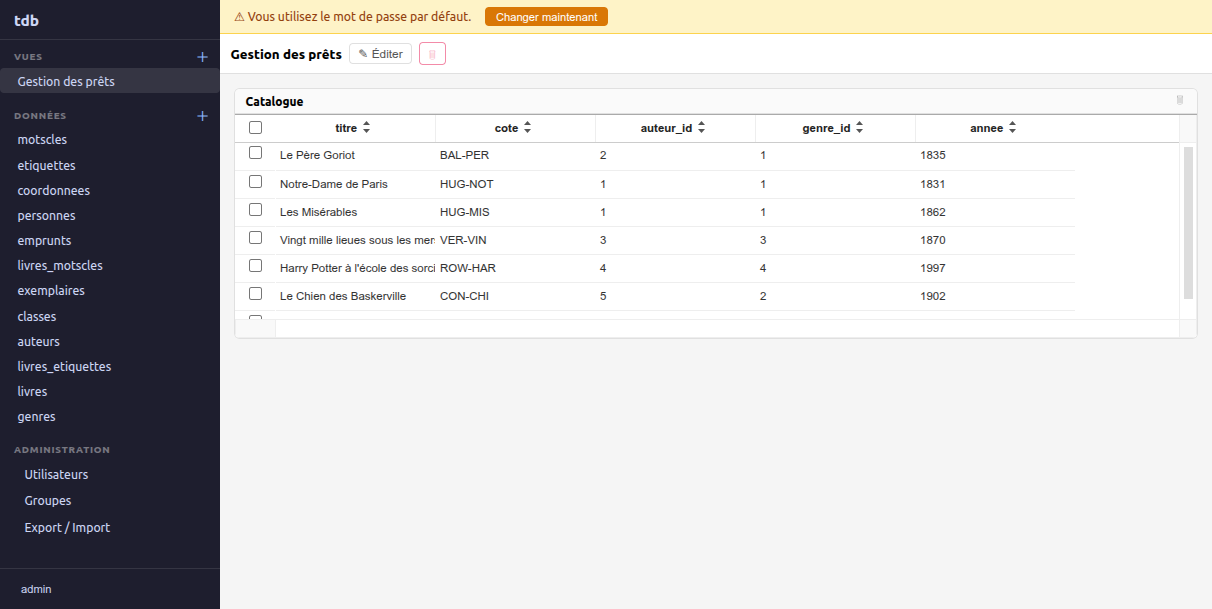
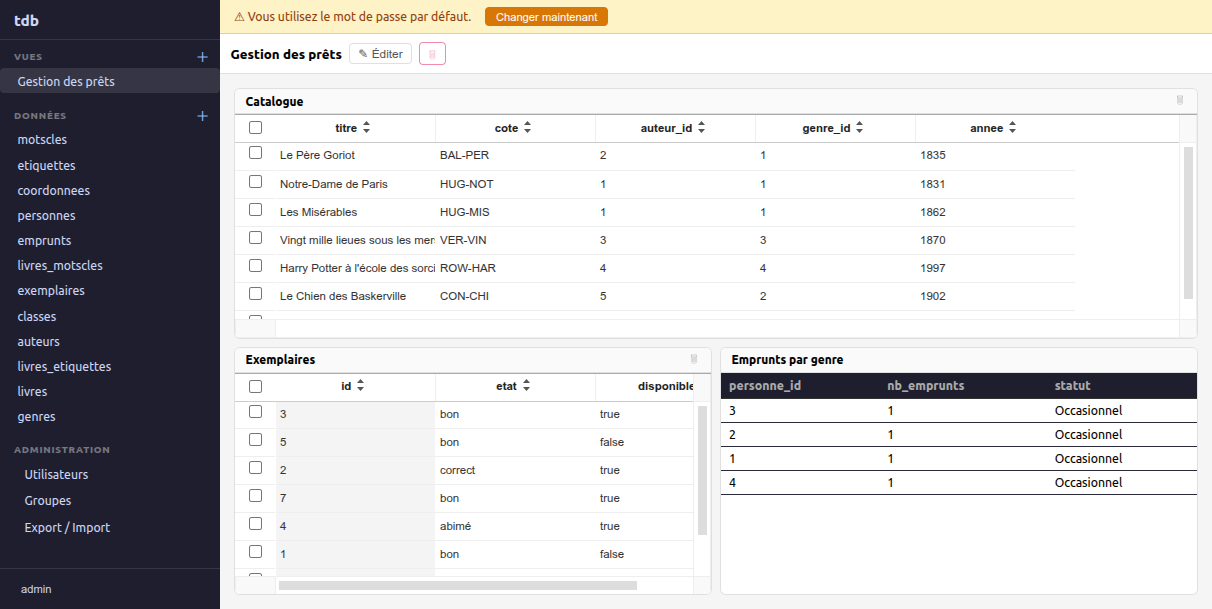
fix: layouts imbriqués dans les vues personnalisées
_renderZoneOrWidget ne gérait pas le cas où un nœud enfant est de la
forme { layout: { direction, children } } (syntaxe YAML "- layout:").
On utilise maintenant node.layout si présent, sinon node directement.

diff --git a/frontend/src/views/custom_view.js b/frontend/src/views/custom_view.js
@@ -75,14 +75,16 @@
 
     // Renders either a zone (direction+children) or a widget node.
     // Applies `factor` (flex proportion) when specified (default: 1).
+    // Supports both inline zone keys (direction/children) and wrapped "- layout:" syntax.
     _renderZoneOrWidget(node) {
-      var child, el, i, len, ref;
-      if (node.widget) {
-        el = this._renderWidget(node.widget);
+      var child, el, i, len, ref, zone;
+      zone = node.layout ? node.layout : node;
+      if (zone.widget) {
+        el = this._renderWidget(zone.widget);
       } else {
         el = document.createElement('div');
-        el.className = `cv-zone ${node.direction || 'vertical'}`;
-        ref = node.children || [];
+        el.className = `cv-zone ${zone.direction || 'vertical'}`;
+        ref = zone.children || [];
         for (i = 0, len = ref.length; i < len; i++) {
           child = ref[i];
           el.appendChild(this._renderZoneOrWidget(child));
